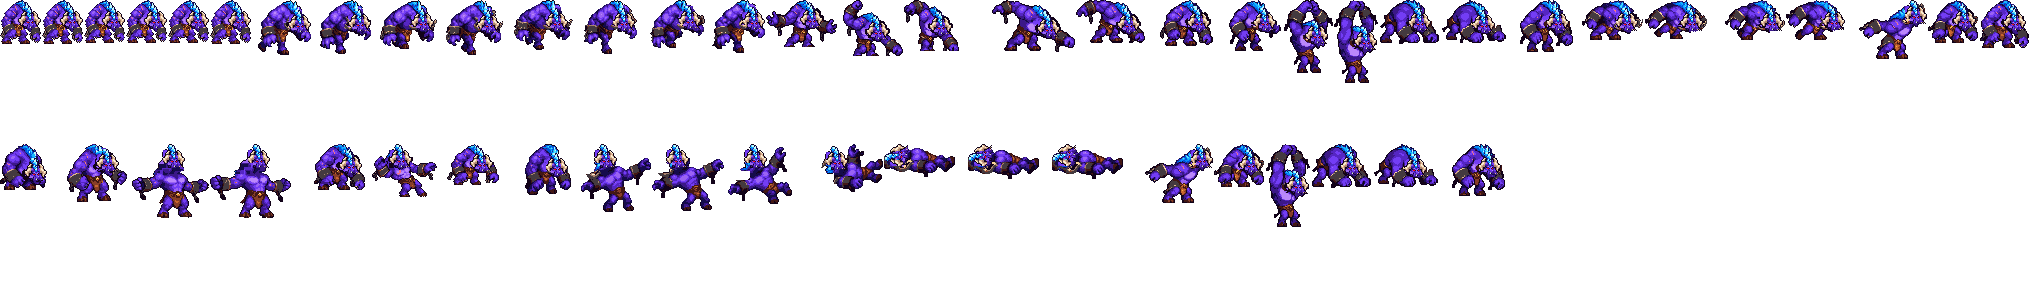
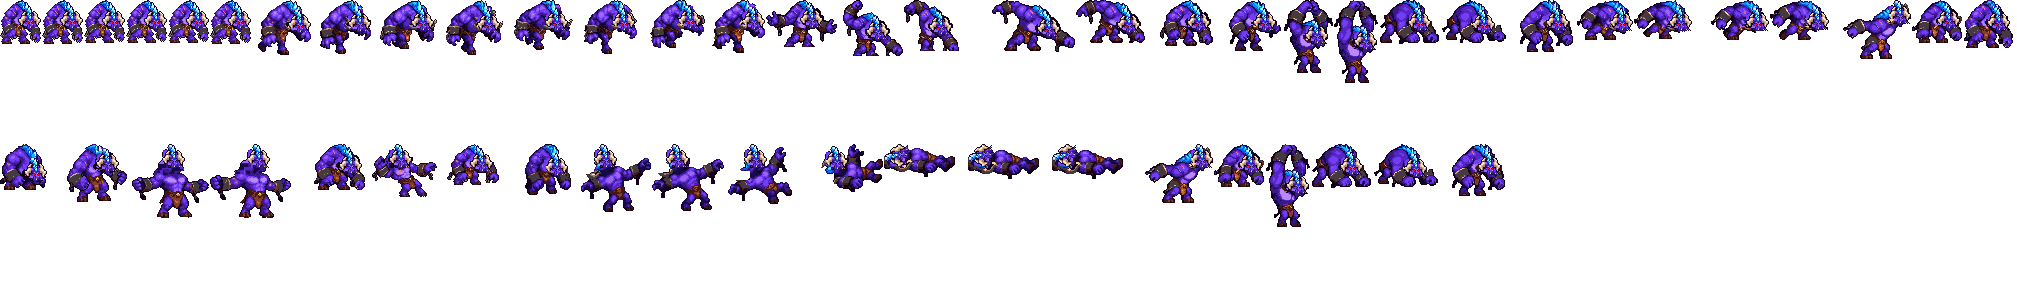
Alistar (#60): W's old iron horns in front of the face removed

Changed region(s): [[0.0, 0.0, 0.9995, 0.3066], [0.0, 0.5017, 0.7496, 0.8084]]

diff --git a/tools/art/fix_alistar_strips.py b/tools/art/fix_alistar_strips.py
@@ -58,6 +58,13 @@ REMOVE = {("dead", 0): [(36, 56, 80, 96)],
           ("dead", 4): [(63, 77, 30, 46)],
           ("skill2", 2): [(58, 66, 92, 97)],
           ("skill2", 3): [(56, 66, 85, 92)]}
+# (tag, 0-based frame): boxes where Codex's old horns in iron grey stand in front of the face (W's charge holds both
+# arms back, so nothing iron belongs there): the iron, rim, brown, gold and outline squares there (not the pasted
+# head) go
+REMOVE_JUNK = {("skill2", 0): [(55, 72, 84, 97)],
+               ("skill2", 1): [(50, 71, 79, 91)],
+               ("skill2", 2): [(56, 69, 88, 98)],
+               ("skill2", 5): [(51, 61, 82, 90)]}
 VIOLET = {(0x3B, 0x18, 0x88), (0x55, 0x26, 0xC3), (0x73, 0x3D, 0xF5), (0x9A, 0x63, 0xF3), (0xBB, 0x88, 0xFB),
           (0x15, 0x0B, 0x4B)}
 CUTS = {"butt": ("skill2", [4, 5]), "slam": ("skill", [2, 3, 4, 5])}     # 0-based frames
@@ -465,7 +472,14 @@ def build(tag, des, mask, palette, cells):
             gone = box & ~placed & (f[..., 3] > 0)
             f[gone] = 0
             n += int(gone.sum())
-        if (tag, i) in REMOVE:
+        junk_cols = {IRON, HORN_DARK, OUTLINE} | NOT_HEAD
+        for r0, r1, c0, c1 in REMOVE_JUNK.get((tag, i), []):
+            for y in range(r0, r1):
+                for x in range(c0, c1):
+                    if f[y, x, 3] and not placed[y, x] and tuple(int(v) for v in f[y, x, :3]) in junk_cols:
+                        f[y, x] = 0
+                        n += 1
+        if (tag, i) in REMOVE or (tag, i) in REMOVE_JUNK:
             f = clean_fragments(f, small=30)
         n += seal(f, placed)
         n += desilver(f, placed)
